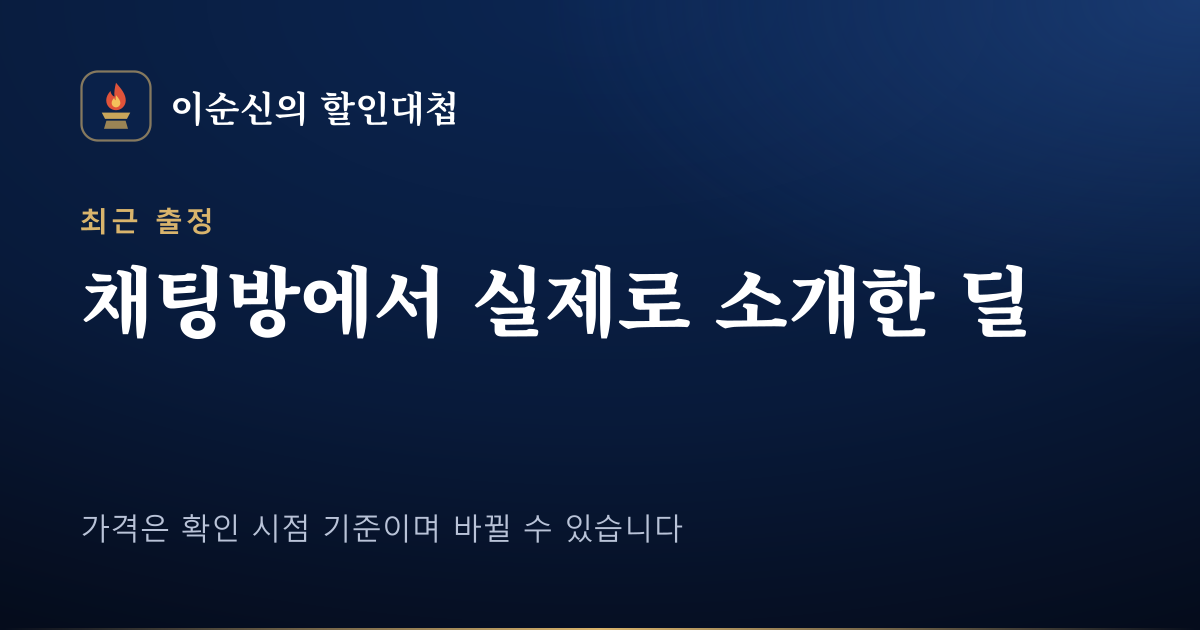
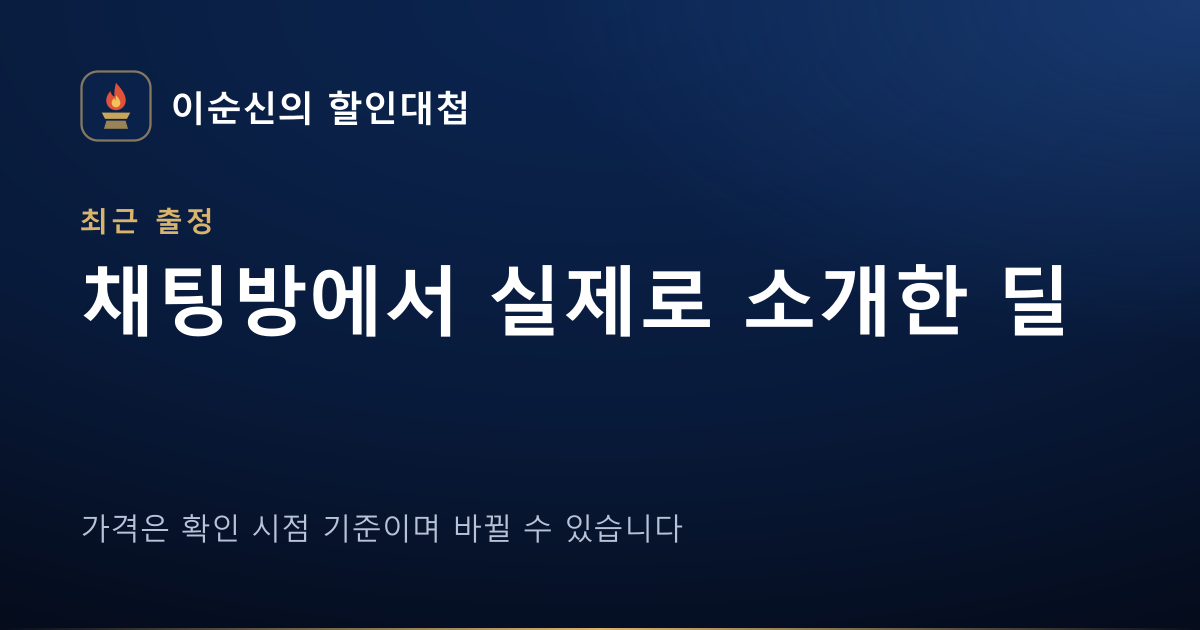
글꼴을 시스템 고딕으로 통일하고 웹폰트 제거
- 명조 웹폰트와 빌드 후처리 서브셋 제거 (폰트 다운로드 0KB)
- 굵기(--fw-*)·크기(--fs-*) 토큰으로 위계 정리

Changed region(s): [[0.0617, 0.4222, 0.8942, 0.5429], [0.1233, 0.1206, 0.4008, 0.2111]]

diff --git a/src/styles/global.css b/src/styles/global.css
@@ -34,8 +34,23 @@
   --shadow: 0 1px 1px rgb(18 26 44 / 0.04), 0 8px 24px -12px rgb(18 26 44 / 0.18);
   --maxw: 1120px;
   --gutter: 20px;
-  --font: Pretendard, -apple-system, BlinkMacSystemFont, 'Apple SD Gothic Neo', 'Malgun Gothic', 'Noto Sans KR', system-ui, sans-serif;
-  --font-display: 'Noto Serif KR', 'Nanum Myeongjo', 'AppleMyungjo', 'Batang', serif;
+  /* 글꼴: 시스템 고딕 하나로 통일 (웹폰트 다운로드 없음). 위계는 굵기와 크기로만 표현 */
+  --font: Pretendard, -apple-system, BlinkMacSystemFont, 'Apple SD Gothic Neo', 'Noto Sans KR', 'Malgun Gothic', system-ui, sans-serif;
+
+  /* 굵기 */
+  --fw-black: 800;   /* 히어로·페이지 제목 */
+  --fw-bold: 700;    /* 섹션 제목, 카드 제목, 버튼 */
+  --fw-semi: 600;    /* 강조, 메뉴 */
+  --fw-regular: 400; /* 본문 */
+
+  /* 크기 (모바일 기준, PC는 아래 미디어쿼리에서 확대) */
+  --fs-display: 1.65rem; /* 히어로 제목 */
+  --fs-h1: 1.6rem;       /* 하위 페이지 제목 */
+  --fs-h2: 1.4rem;       /* 섹션 제목 */
+  --fs-h3: 1.1rem;       /* 카드·소제목 */
+  --fs-body: 1rem;
+  --fs-small: 0.9rem;
+  --fs-caption: 0.78rem;
 }
 
 *, *::before, *::after { box-sizing: border-box; }
@@ -55,7 +70,7 @@ body {
 img, svg { display: block; max-width: 100%; }
 a { color: var(--navy-700); text-decoration-thickness: 1px; text-underline-offset: 4px; }
 a:hover { color: var(--red); }
-h1, h2, h3 { line-height: 1.3; letter-spacing: -0.025em; margin: 0 0 0.5em; font-weight: 700; }
+h1, h2, h3 { line-height: 1.3; letter-spacing: -0.03em; margin: 0 0 0.5em; font-weight: var(--fw-bold); }
 p { margin: 0 0 1em; }
 :focus-visible { outline: 2px solid var(--gold); outline-offset: 3px; border-radius: 6px; }
 
@@ -65,18 +80,16 @@ p { margin: 0 0 1em; }
   position: absolute !important; width: 1px; height: 1px; padding: 0; margin: -1px;
   overflow: hidden; clip: rect(0 0 0 0); white-space: nowrap; border: 0;
 }
-.skip-link { position: absolute; left: 8px; top: -60px; z-index: 100; padding: 10px 14px; background: var(--gold); color: var(--ink-950); font-weight: 700; border-radius: 8px; }
+.skip-link { position: absolute; left: 8px; top: -60px; z-index: 100; padding: 10px 14px; background: var(--gold); color: var(--ink-950); font-weight: var(--fw-bold); border-radius: 8px; }
 .skip-link:focus { top: 8px; }
-
-.display { font-family: var(--font-display); font-weight: 700; letter-spacing: -0.03em; }
 
 /* 섹션 공통 */
 .section { padding-block: 56px; }
-.section-title { font-family: var(--font-display); font-size: 1.5rem; letter-spacing: -0.035em; }
+.section-title { font-size: var(--fs-h2); font-weight: var(--fw-black); letter-spacing: -0.04em; }
 .section-lead { color: var(--ink-soft); margin: -0.2em 0 1.6em; }
 .eyebrow {
   display: inline-flex; align-items: center; gap: 10px;
-  font-size: 0.78rem; font-weight: 700; letter-spacing: 0.14em; color: var(--gold-ink); margin-bottom: 10px;
+  font-size: var(--fs-caption); font-weight: var(--fw-bold); letter-spacing: 0.12em; color: var(--gold-ink); margin-bottom: 10px;
 }
 .eyebrow::before { content: ''; width: 20px; height: 1px; background: currentColor; opacity: 0.7; }
 
@@ -88,7 +101,7 @@ p { margin: 0 0 1em; }
     linear-gradient(180deg, var(--navy-900), var(--navy-850));
   border-bottom: 1px solid var(--navy-line);
 }
-.page-head h1 { font-family: var(--font-display); font-size: 1.75rem; letter-spacing: -0.035em; margin-bottom: 0.35em; }
+.page-head h1 { font-size: var(--fs-h1); font-weight: var(--fw-black); letter-spacing: -0.04em; margin-bottom: 0.35em; }
 .page-head p { color: #b9c3d8; margin: 0; }
 .page-head .eyebrow { color: var(--gold); }
 
@@ -102,7 +115,7 @@ p { margin: 0 0 1em; }
 .notice p { margin: 0; }
 .notice svg { flex: none; width: 20px; height: 20px; margin-top: 2px; color: var(--gold-ink); }
 
-.badge { display: inline-flex; align-items: center; gap: 4px; font-size: 0.74rem; font-weight: 700; padding: 3px 9px; border-radius: 999px; white-space: nowrap; letter-spacing: 0.01em; }
+.badge { display: inline-flex; align-items: center; gap: 4px; font-size: 0.74rem; font-weight: var(--fw-bold); padding: 3px 9px; border-radius: 999px; white-space: nowrap; letter-spacing: 0.01em; }
 .badge--bonghwa { background: #f7efdb; color: var(--gold-ink); box-shadow: inset 0 0 0 1px #e8d8b0; }
 .badge--chuljeong { background: #f9e5e4; color: var(--red-deep); box-shadow: inset 0 0 0 1px #f0c7c6; }
 .badge--muted { background: #ecebe6; color: #4a5163; }
@@ -116,24 +129,22 @@ p { margin: 0 0 1em; }
 
 /* 본문 글 */
 .prose { font-size: 1.04rem; line-height: 1.85; }
-.prose h2 { font-family: var(--font-display); font-size: 1.35rem; margin-top: 2.2em; letter-spacing: -0.035em; }
-.prose h3 { font-size: 1.1rem; margin-top: 1.6em; }
+.prose h2 { font-size: 1.3rem; font-weight: var(--fw-bold); margin-top: 2.2em; letter-spacing: -0.035em; }
+.prose h3 { font-size: var(--fs-h3); margin-top: 1.6em; }
 .prose ul, .prose ol { padding-left: 1.3em; margin: 0 0 1.2em; }
 .prose li { margin-bottom: 0.4em; }
 .prose li::marker { color: var(--gold-ink); }
 .prose table { width: 100%; border-collapse: collapse; margin: 1em 0 1.6em; font-size: 0.94rem; display: block; overflow-x: auto; line-height: 1.5; }
 .prose th, .prose td { border-bottom: 1px solid var(--line); padding: 10px 12px; text-align: left; white-space: nowrap; }
-.prose th { background: #efebe1; font-weight: 700; }
+.prose th { background: #efebe1; font-weight: var(--fw-bold); }
 .prose blockquote { margin: 1.4em 0; padding: 14px 18px; border-left: 2px solid var(--gold); background: #faf5e9; color: #4b3d1c; border-radius: 0 10px 10px 0; }
 .prose blockquote p:last-child { margin: 0; }
 .prose code { background: #ecebe6; padding: 1px 5px; border-radius: 4px; font-size: 0.92em; }
 
 @media (min-width: 768px) {
-  :root { --gutter: 32px; }
+  :root { --gutter: 32px; --fs-display: 2.75rem; --fs-h1: 2.25rem; --fs-h2: 1.9rem; --fs-h3: 1.25rem; }
   .section { padding-block: 88px; }
-  .section-title { font-size: 2rem; }
   .page-head { padding-block: 64px 68px; }
-  .page-head h1 { font-size: 2.4rem; }
 }
 
 @media (prefers-reduced-motion: reduce) {
